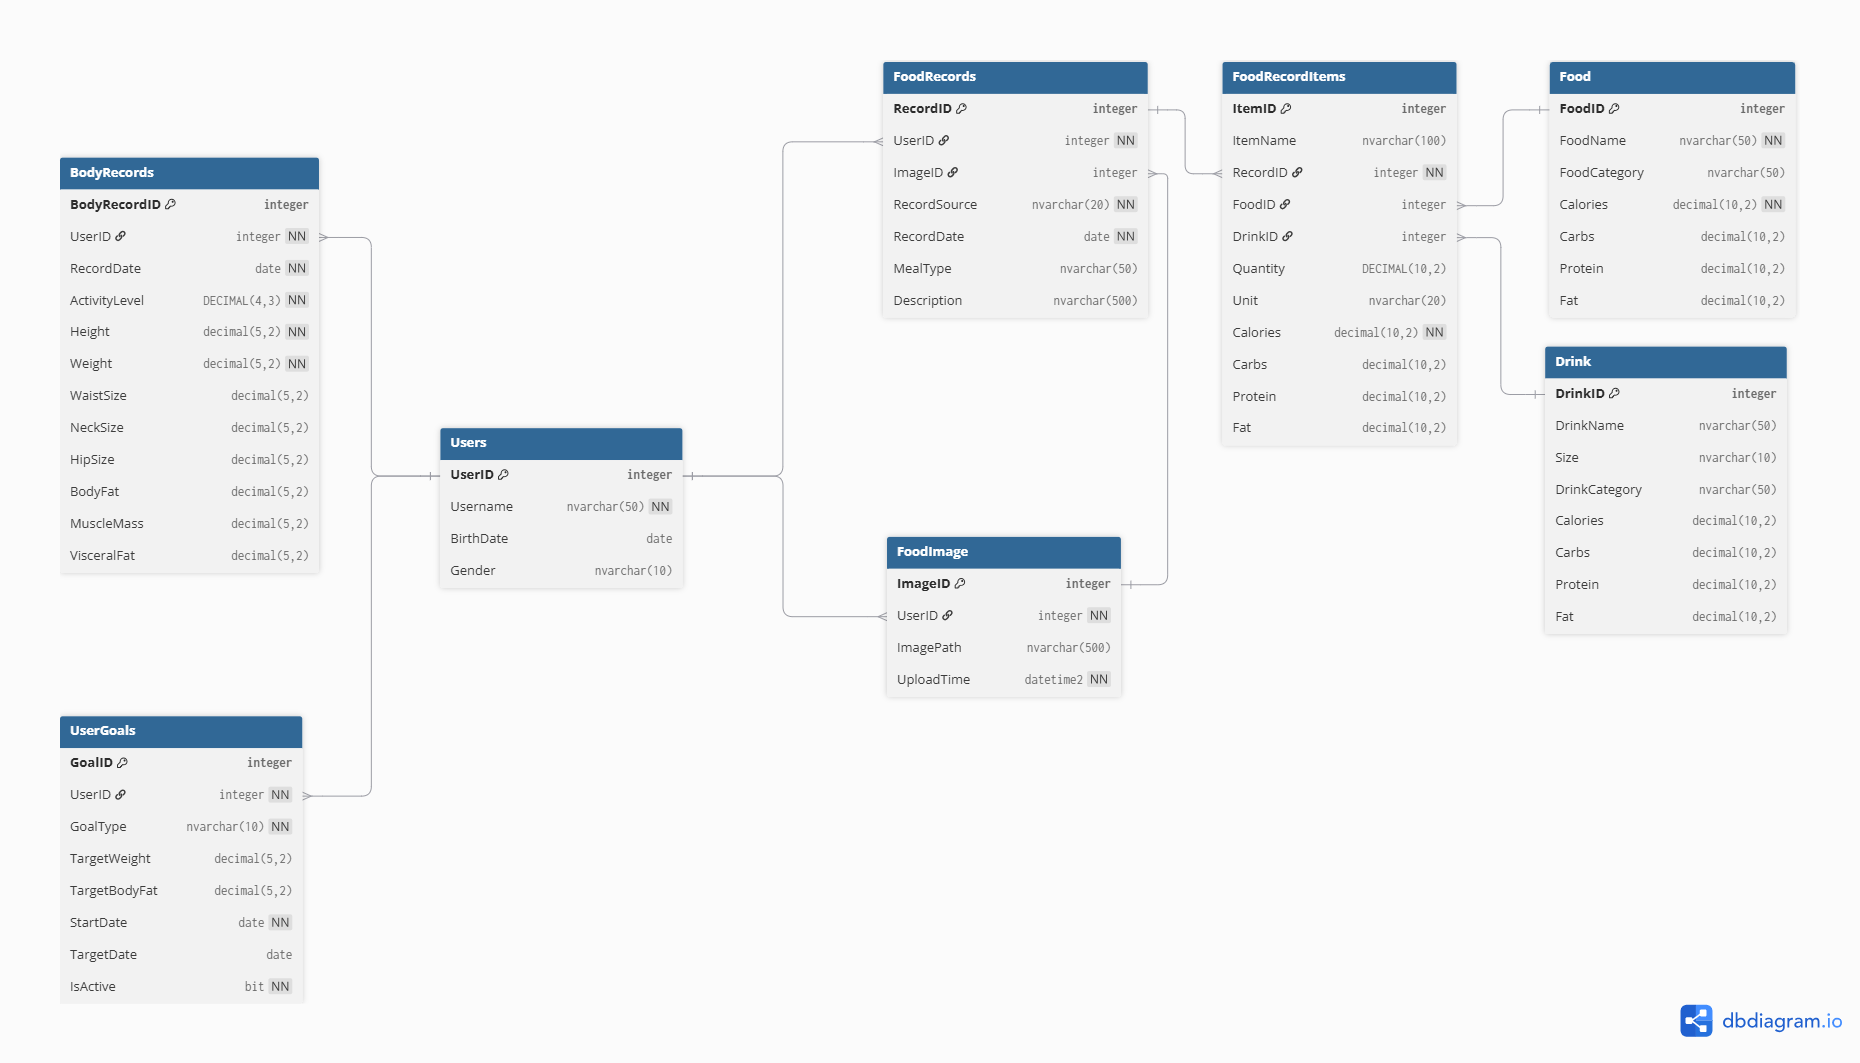
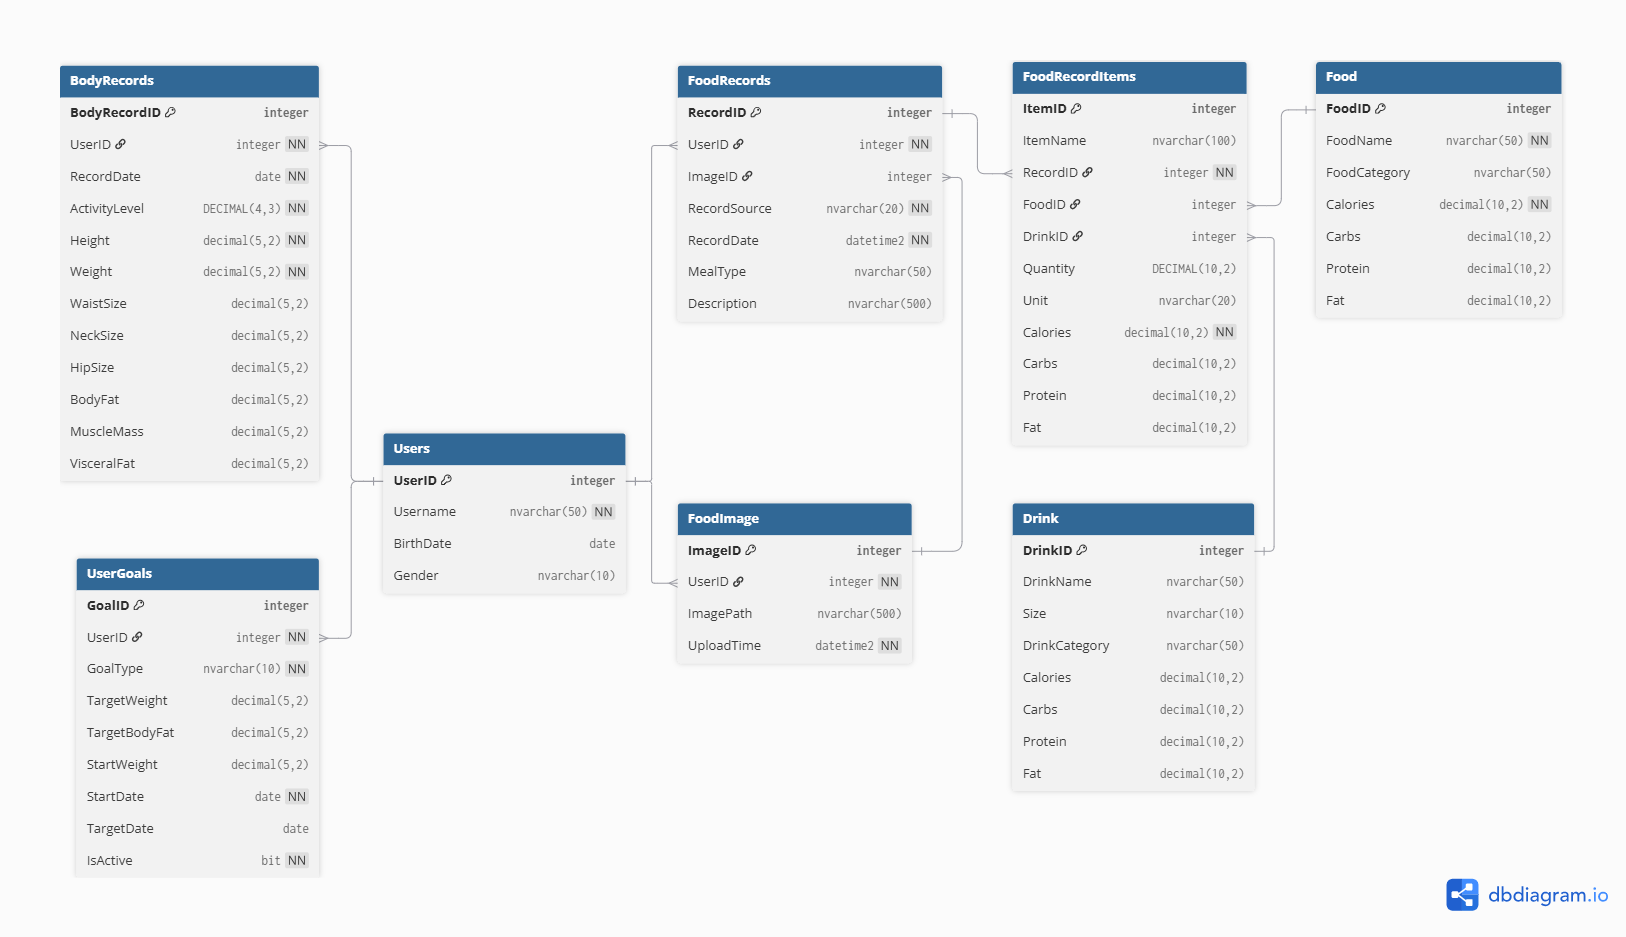
(database): update schema and ERD

diff --git a/README.md b/README.md
@@ -280,7 +280,7 @@ HappyEat-Portfolio/
 │       ├── Controllers/
 │       ├── DTOs/
 │       ├── Exceptions/
-│       ├── Mapping/
+│       ├── Mappings/
 │       ├── Models/
 │       ├── Services/
 │       ├── Data/
